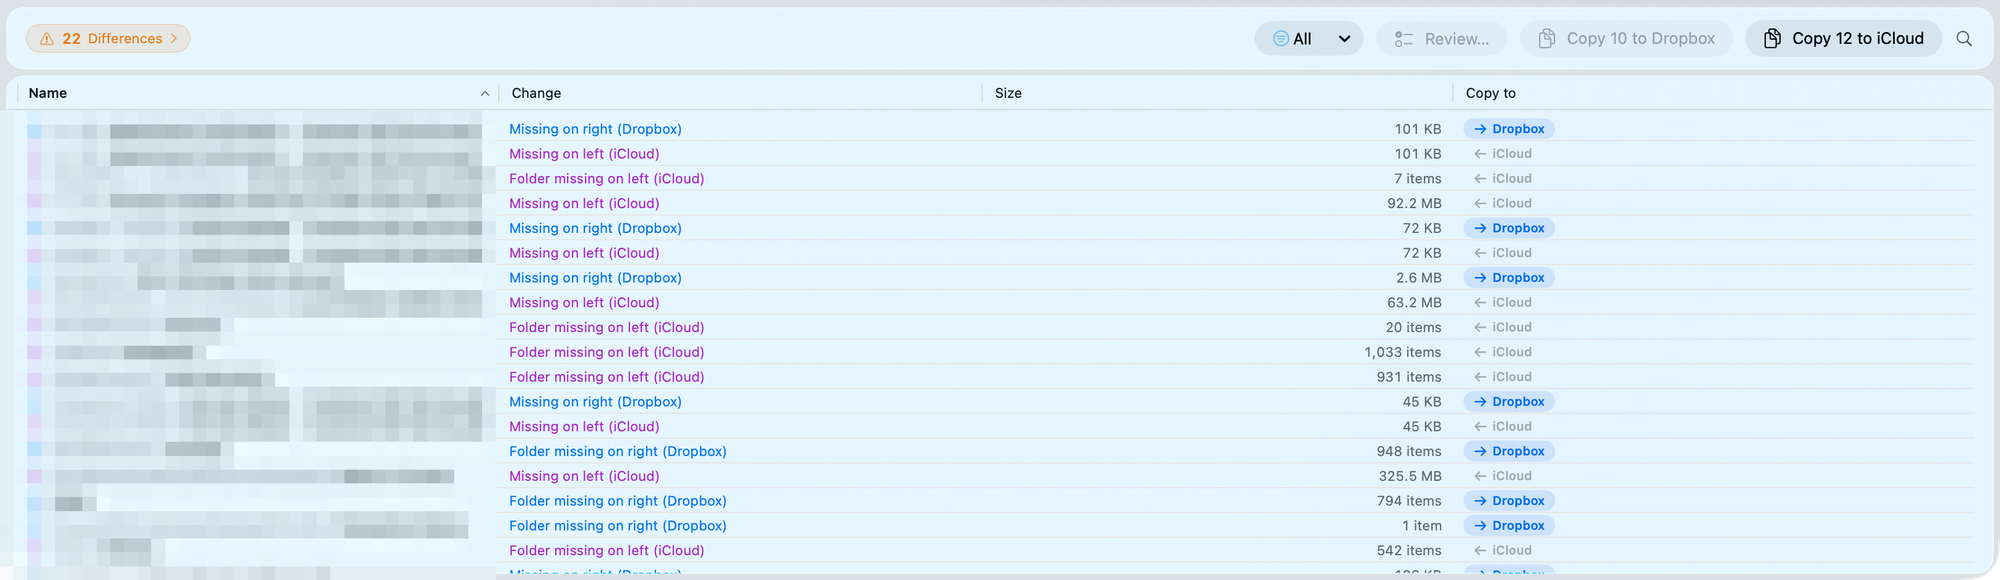
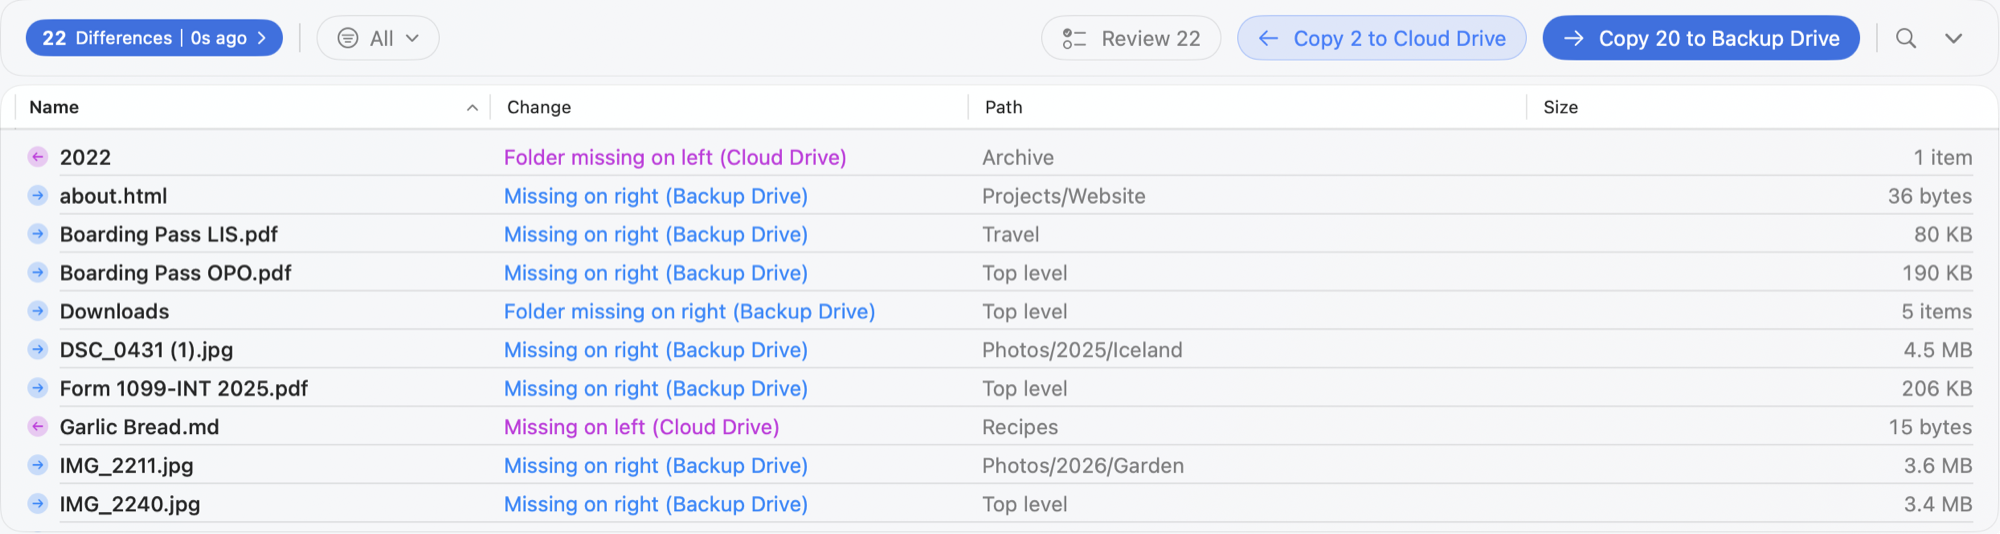
Reshoot the README and Pages screenshots, and fix the stale claims
Six of the seven images still showed the retired Compare | Tidy bar over
blurred real folders. Every image is now a capture of the 5.5-dev app
against a synthetic tree, and three are new (Browse, Edit in Split view,
Renames). compare-undo.png showed a UI that no longer exists, so Guided
Review replaces it as compare-review.png.

Captured under a separate bundle ID (com.abhishekgirish.SyncCloud.demo)
with CFFIXED_USER_HOME pointing at the fixture, so no real preferences or
folders were read or written. Storage's saved report was produced by the
app's own StorageLensAnalyzer. The home row in Locations still shows the
account name: it comes from NSUserName() and nothing overrides it.

Text fixed against the code, in both README and docs/index.html:
- `synccloud scan --verify` does not exist; --verify is a sync flag.
- Claude is reached only by Refine, so the cost estimate precedes a
  Refine, not a scan.
- Six lenses, not five; Rules and Storage are the two that do not act,
  and the two that never carry a badge.
- The editor's first mode is Source, not Edit.
- The startup disk left default Favorites on 2026-09-07; the home folder
  is in Favorites, not Locations; Recents appears only once it has rows.
- Difference filters, arrow glyphs, Renames' numbering pass, the CI
  description (tests, not a build), and a shipped text diff dropped from
  the roadmap line.

Main only: v2.x, v3.x and v4.x carry the UI their own screenshots show.

diff --git a/docs/index.html b/docs/index.html
@@ -284,8 +284,8 @@
           <li><span class="ic">🔎</span> <span><b>Filter &amp; token search</b> — <code>kind:pdf</code>, <code>&gt;10mb</code>, <code>only:left</code>, with live counts.</span></li>
         </ul>
         <div class="legend">
-          <span class="chip"><b style="background:#4c8dff"></b> Copy → right</span>
-          <span class="chip"><b style="background:#9a7bff"></b> Copy ← left</span>
+          <span class="chip"><b style="background:#4c8dff"></b> Missing on right</span>
+          <span class="chip"><b style="background:#9a7bff"></b> Missing on left</span>
           <span class="chip"><b style="background:#f2b13c"></b> Changed</span>
           <span class="chip"><b style="background:#e9d94a"></b> Name conflict</span>
         </div>
@@ -304,7 +304,7 @@
           <li><span class="ic">⌘</span> <span><b>Keyboard transfers</b> — <code>⌘→</code> copy, add <code>⇧</code> to move.</span></li>
         </ul>
       </div>
-      <div class="media"><img src="assets/screenshots/compare-undo.png" alt="An operation with a one-click Undo banner" loading="lazy"></div>
+      <div class="media"><img src="assets/screenshots/compare-review.png" alt="Guided Review stepping through differences one at a time" loading="lazy"></div>
     </div>
   </div>
 </section>
@@ -321,7 +321,7 @@
       <div class="safe">
         <div class="ico">◫</div>
         <h4>A folder sidebar</h4>
-        <p>Down the left of every workspace, in three sections: <b>Favorites</b>, the folders and places you keep; <b>Locations</b>, every account you have signed into plus your home folder, your disks and the Trash; and <b>Recents</b>, the folders you were last in. Favorites and Recents span every source, and you choose what sits in them.</p>
+        <p>Down the left of every workspace, in three sections: <b>Favorites</b>, the folders and places you keep; <b>Locations</b>, every account you have signed into, any disk Favorites is not already holding, and the Trash; and <b>Recents</b>, the folders you were last in, once you have been somewhere the other two don't list. Favorites and Recents span every source, and you choose what sits in them.</p>
       </div>
       <div class="safe">
         <div class="ico">▥</div>
@@ -352,7 +352,7 @@
   <div class="wrap">
     <div class="sec-head">
       <div class="kicker">Organize</div>
-      <h2>Five lenses to put a single cloud folder in order</h2>
+      <h2>Six lenses to put a single cloud folder in order</h2>
       <p>Switch a provider into the Organize workspace and reach for whichever lens the mess calls for.</p>
     </div>
 
@@ -386,7 +386,7 @@
       <div class="card" style="background:var(--grad-soft)">
         <div class="ico">🛟</div>
         <h4>…and undo</h4>
-        <p>Every clean-up action across all five lenses is one grouped, reversible step. Trash-backed, atomic, and gone with a single <code>⌘Z</code>.</p>
+        <p>Every clean-up action, in every lens that acts, is one grouped, reversible step. Trash-backed, atomic, and gone with a single <code>⌘Z</code>.</p>
       </div>
     </div>
 
@@ -457,7 +457,7 @@
     </div>
     <div class="safe-grid">
       <div class="safe"><div class="ico">📄</div><h4>One list of what you can open</h4><p>A collapsible file pane to browse to any folder, where one click on a text file opens it; fold the pane away and a rail lists that folder's text files instead. A file too large to read, or still in the cloud, is listed and dimmed rather than hidden — and says which it is.</p></div>
-      <div class="safe"><div class="ico">👁</div><h4>Markdown, three ways</h4><p><b>Edit</b>, <b>Preview</b>, or <b>Split</b> with a divider you can drag. Rendered by a real Markdown parser — tables and task lists included — at the app's own text size rather than a web view's.</p></div>
+      <div class="safe"><div class="ico">👁</div><h4>Markdown, three ways</h4><p><b>Source</b>, <b>Preview</b>, or <b>Split</b> with a divider you can drag. Rendered by a real Markdown parser — tables and task lists included — at the app's own text size rather than a web view's.</p></div>
       <div class="safe"><div class="ico">💾</div><h4>It saves itself, carefully</h4><p>A couple of seconds after you stop typing, and whenever the document leaves the screen. Every write is staged and swapped in atomically and goes back in the encoding the file was read in — byte-order mark and line endings intact. <code>⌘S</code> still means "now".</p></div>
       <div class="safe"><div class="ico">🛑</div><h4>It refuses rather than guess</h4><p>A file that is not valid text opens read-only: saving it would replace the parts that could not be read. A folder that appeared where the file was is not written over. Typing has its own undo, so <code>⌘Z</code> here can never reach into a move.</p></div>
     </div>
@@ -482,7 +482,7 @@
           </div>
           <ul class="flist" style="margin-top:24px">
             <li><span class="ic">🔒</span> <span>On-device AI keeps everything on your Mac. Cloud AI is <b>off by default</b> and opt-in.</span></li>
-            <li><span class="ic">💵</span> <span>Every cloud scan shows an estimated cost first and stops at your monthly / total cap.</span></li>
+            <li><span class="ic">💵</span> <span>Scans are always free and on-device. Every <b>Refine with Claude</b> shows an estimated cost first and stops at your monthly / total cap.</span></li>
             <li><span class="ic">↩</span> <span>Nothing files without your say-so, and every move is one undo.</span></li>
           </ul>
         </div>
@@ -526,11 +526,11 @@
 
 <span class="c"># compare two folders (a provider id/name or a path)</span>
 <span class="p">$</span> <span class="cmd">synccloud scan</span> <span class="fl">-L</span> <span class="o">iCloud/Documents</span> <span class="fl">-R</span> <span class="o">OneDrive/Documents</span>
-<span class="p">$</span> <span class="cmd">synccloud scan</span> <span class="fl">-L</span> <span class="o">~/A</span> <span class="fl">-R</span> <span class="o">~/B</span> <span class="fl">--verify</span>   <span class="c"># checksum same-size pairs</span>
 <span class="p">$</span> <span class="cmd">synccloud scan</span> <span class="fl">-L</span> <span class="o">~/A</span> <span class="fl">-R</span> <span class="o">~/B</span> <span class="fl">--json</span>     <span class="c"># machine-readable</span>
 
 <span class="c"># sync one direction, keeping both on collision (prompts unless --yes)</span>
 <span class="p">$</span> <span class="cmd">synccloud sync</span> <span class="fl">-L</span> <span class="o">~/A</span> <span class="fl">-R</span> <span class="o">~/B</span> <span class="fl">--direction</span> <span class="o">to-right</span> <span class="fl">--strategy</span> <span class="o">keep-both</span> <span class="fl">--yes</span>
+<span class="p">$</span> <span class="cmd">synccloud sync</span> <span class="fl">-L</span> <span class="o">~/A</span> <span class="fl">-R</span> <span class="o">~/B</span> <span class="fl">--verify</span>   <span class="c"># checksum same-size, date-only pairs first</span>
 
 <span class="c"># report where a surveyed tree disagrees with its own habits (read-only)</span>
 <span class="p">$</span> <span class="cmd">synccloud restructure</span>
@@ -548,10 +548,12 @@
       <p>A Liquid-Glass interface with System / Light / Dark themes, 11 accent hues (or none), and per-provider brand colours.</p>
     </div>
     <div class="gallery">
-      <figure><img src="assets/screenshots/tidy-organize.png" alt="To File lens" loading="lazy"><figcaption>To File — AI-assisted filing with per-file confidence and cost tracking</figcaption></figure>
+      <figure><img src="assets/screenshots/tidy-organize.png" alt="To File lens" loading="lazy"><figcaption>To File — where each loose file belongs, with a confidence and a reason</figcaption></figure>
       <figure><img src="assets/screenshots/tidy-duplicates.png" alt="Duplicates lens" loading="lazy"><figcaption>Duplicates — reclaim space with a recommended keeper and Quick Look previews</figcaption></figure>
-      <figure><img src="assets/screenshots/settings.png" alt="Settings" loading="lazy"><figcaption>Settings — themes, providers, sync behaviour, AI budget caps</figcaption></figure>
-      <figure><img src="assets/screenshots/tidy-storage.png" alt="Storage treemap" loading="lazy"><figcaption>Storage — a proportional treemap of where space concentrates</figcaption></figure>
+      <figure><img src="assets/screenshots/settings.png" alt="Settings, Appearance tab" loading="lazy"><figcaption>Settings ▸ Appearance — theme, accent colour, glass effect and content surface</figcaption></figure>
+      <figure><img src="assets/screenshots/browse.png" alt="Browse workspace with the folder sidebar" loading="lazy"><figcaption>Browse — one source, full width, with the folder sidebar down the left</figcaption></figure>
+      <figure><img src="assets/screenshots/edit.png" alt="Edit workspace with a Markdown file in Split view" loading="lazy"><figcaption>Edit — a Markdown file in Split view, Source beside Preview</figcaption></figure>
+      <figure><img src="assets/screenshots/renames.png" alt="Renames lens" loading="lazy"><figcaption>Renames — names a provider would reject, each with the name it would become</figcaption></figure>
     </div>
     <div class="center mt40">
       <a class="btn primary" href="https://github.com/agirish/sync-cloud">Get SyncCloud on GitHub</a>

diff --git a/README.md b/README.md
@@ -37,12 +37,12 @@ clearly-warned fallback on volumes with no Trash; the CLI has no undo stack of i
 ### 📁 Browse — your folders, one click away
 - **A folder sidebar in every workspace** (**⌃⌘S**), in three sections: **Favorites**, the folders
   and places you keep; **Locations**, every account you have signed into, any disks Favorites is
-  not already holding, and the Trash; and **Recents**, the folders you were last in. Favorites and Recents span every source, so
-  a favorite in Dropbox is reachable without switching to Dropbox first.
-- **Favorites you curate.** Starts as your home folder, Desktop, Documents, Downloads and your
-  startup disk; right-click any place in Locations to add it, any row in Favorites to remove it, or
-  any folder in a pane to keep it. **Restore Standard Places** brings the five back.
-- **Drag a row to reorder** either section. Locations shares its order with the pane header's
+  not already holding, and the Trash; and **Recents**, the folders you were last in (it appears once you have been somewhere the other
+  two don't already list). Favorites and Recents span every source, so a favorite in Dropbox is reachable without switching to Dropbox first.
+- **Favorites you curate.** Starts as your home folder, Desktop, Documents and Downloads;
+  right-click any place in Locations to add it, any row in Favorites to remove it, or
+  any folder in a pane to keep it. **Restore Standard Places** brings the four back.
+- **Drag a row to reorder** Favorites, Recents, and the accounts in Locations. Locations shares its order with the pane header's
   source dropdown, so the two can't disagree.
 - **Column browsing** the way Finder does it, with an inline preview beside the stack, columns you
   size one at a time, per-pane **tabs**, and a **pane bar** you arrange yourself.
@@ -52,10 +52,10 @@ clearly-warned fallback on volumes with no Trash; the CLI has no undo stack of i
   picker, breadcrumb navigation + back/forward history, and one-click **⇄ swap**.
 - **Difference detection** by presence, modification date, and size — with a **date tolerance** that
   absorbs the timestamp rounding cloud providers do, so you don't drown in false differences.
-- **Colour- and shape-coded diffs** (readable without colour): missing-on-right ▸, missing-on-left ◂,
+- **Colour- and shape-coded diffs** (readable without colour): missing-on-right →, missing-on-left ←,
   changed ↻, and **name conflicts** ⚠ — items that differ only by an invisible trailing space,
   trailing period, zero-width character, or Unicode form.
-- **Filter and search** the differences: `All / Missing / Changed / Name conflicts` with live counts,
+- **Filter and search** the differences: All, Missing on either side, Changed (either side newer), and Name conflicts, with live counts,
   plus a token search (`kind:pdf`, `>10mb`, `only:left`).
 - **Guided Review** steps through each difference one at a time — Copy / Move / Skip — with a running
   tally and "Copy Remaining" to finish in bulk.
@@ -66,7 +66,8 @@ clearly-warned fallback on volumes with no Trash; the CLI has no undo stack of i
   keyboard (`⌘→ / ⌘←` to copy, add `⇧` to move).
 
 ### 🗂 Organize — put one provider in order
-One rail, six lenses — five that act on what they find, and **Storage** (below), which only reports:
+One rail, six lenses — four that act on what they find, **Rules**, which sets the standing
+instructions, and **Storage** (below), which only reports:
 - **To File** — scans the loose files in an inbox folder and **suggests which existing folder each
   one belongs in**, filing it there safely (creating folders, never overwriting, always undoable).
 - **Duplicates** — finds byte-for-byte **identical** copies, **overlapping** folders, drifted
@@ -77,7 +78,7 @@ One rail, six lenses — five that act on what they find, and **Storage** (below
 - **Renames** — filenames that break on a given provider (OneDrive's forbidden characters and
   reserved names, Dropbox's trailing spaces/periods, zero-width characters anywhere), files that
   break their folder's `NN. Mon YYYY` date convention where the folder already keeps one, and
-  folders whose numbering has drifted. Each row names the problem in words and shows the name it
+  files renumbered or zero-padded to keep their folder in order. Each row names the problem in words and shows the name it
   would become; **Fix all** applies the provider-hostile set in one undo, and the convention and
   numbering passes are applied from their own controls.
 - **Restructure** — finds where the tree disagrees with its own habits and **straightens it**.
@@ -101,8 +102,8 @@ accent hue, ordered by size, so the colour *is* the ranking — plus ranked list
 files, long-untouched files, and reclaim candidates, each row carrying a magnitude bar and its
 share of the scan, and a capsule above the list to switch between them. Set a scope and it
 re-analyses that folder rather than filtering what it had — a treemap is a picture of a whole.
-Strictly read-only: it never moves, deletes, or evicts anything, which is also why it is the one
-lens that never wears a count badge.
+Strictly read-only: it never moves, deletes, or evicts anything, which is also why it, like Rules,
+never wears a count badge.
 
 ### ✏ Edit — write in a text file
 The one workspace that changes what is *inside* a file rather than moving files around. A collapsible
@@ -123,7 +124,8 @@ signals + on-device text extraction). You can layer AI on top:
 - **Cloud** via **Claude** (`claude-haiku-4-5`, `claude-sonnet-5`, or `claude-opus-5`) — off by
   default, opt-in, with your API key stored in the **macOS Keychain** (never in plaintext).
 
-Cloud usage is metered: every scan records tokens and estimated cost, guarded by a **pre-flight cost
+Cloud use is opt-in per pass: scans are always free and on-device, and only **Refine with Claude**
+reaches the cloud. Every Refine records tokens and estimated cost, guarded by a **pre-flight cost
 confirmation** and hard **monthly / total budget caps** (a `$5` lifetime cap by default). Over budget,
 it silently falls back to the on-device engine.
 
@@ -153,13 +155,19 @@ preview of the rows they produce.
 
 ## Screenshots
 
-| Two-pane comparison | Finding duplicate copies | Filing loose files, with AI |
+| Two-pane comparison | Browsing one source | Writing in a text file |
 |---|---|---|
-| ![Compare](docs/assets/screenshots/hero-compare.png) | ![Duplicates](docs/assets/screenshots/tidy-duplicates.png) | ![To File](docs/assets/screenshots/tidy-organize.png) |
+| ![Compare](docs/assets/screenshots/hero-compare.png) | ![Browse](docs/assets/screenshots/browse.png) | ![Edit](docs/assets/screenshots/edit.png) |
 
-| Storage treemap | Undo everywhere | Settings |
+| Filing loose files | Finding duplicate copies | Storage treemap |
 |---|---|---|
-| ![Storage](docs/assets/screenshots/tidy-storage.png) | ![Undo](docs/assets/screenshots/compare-undo.png) | ![Settings](docs/assets/screenshots/settings.png) |
+| ![To File](docs/assets/screenshots/tidy-organize.png) | ![Duplicates](docs/assets/screenshots/tidy-duplicates.png) | ![Storage](docs/assets/screenshots/tidy-storage.png) |
+
+| Guided Review | Cloud-hostile names | Settings |
+|---|---|---|
+| ![Guided Review](docs/assets/screenshots/compare-review.png) | ![Renames](docs/assets/screenshots/renames.png) | ![Settings](docs/assets/screenshots/settings.png) |
+
+Every capture is of the app running against a synthetic folder tree, not anyone's real files.
 
 More on the **[feature site](https://agirish.github.io/sync-cloud/)**.
 
@@ -201,10 +209,10 @@ swift run synccloud providers
 # Compare two folders (accepts a provider id/name or a path)
 swift run synccloud scan  -L iCloud/Documents -R OneDrive/Documents
 swift run synccloud scan  -L ~/A -R ~/B --json          # machine-readable
-swift run synccloud scan  -L ~/A -R ~/B --verify        # checksum same-size pairs
 
 # Sync (prompts unless --yes)
 swift run synccloud sync  -L ~/A -R ~/B --direction to-right --strategy keep-both --yes
+swift run synccloud sync  -L ~/A -R ~/B --verify        # checksum same-size, date-only pairs first
 
 # Report where a surveyed tree disagrees with its own habits (read-only)
 swift run synccloud restructure
@@ -220,8 +228,8 @@ Key flags: `--direction auto|to-right|to-left`, `--strategy replace|skip|keep-bo
 1. Get an API key from the [Anthropic Console](https://console.anthropic.com/).
 2. In **Settings ▸ Intelligence**, enable *Use Claude (cloud)*, paste the key (stored in the
    Keychain), pick a model, and hit **Test**.
-3. Set a monthly and/or total **budget cap**. SyncCloud shows an estimated cost before each scan and
-   stops at your cap.
+3. Set a monthly and/or total **budget cap**. SyncCloud shows an estimated cost before each Refine and
+   pauses cloud refinement at your cap.
 
 Without a key (and without Apple Intelligence), Organize still works — it just runs the deterministic
 offline engine.
@@ -234,7 +242,7 @@ SyncCloud/
 ├── Modules/                    # SPM packages:
 │   ├── Sync/                   #   diff engine, file ops, duplicates, filing/automations, storage lens
 │   ├── FileExplorer/           #   panes, differences, Organize lenses, review
-│   ├── Dashboard/              #   activity log, details, breadcrumbs, sync history
+│   ├── Dashboard/              #   folder sidebar, activity log, details, breadcrumbs, sync history
 │   ├── Settings/               #   settings UI + persistence
 │   ├── Design/                 #   Liquid Glass design system
 │   └── Events/                 #   logging, sync-history store
@@ -246,7 +254,7 @@ SyncCloud/
 
 ## Continuous integration
 
-The seven SPM package test suites and the app-target build run on every push to `main`, `v4.x`,
+The seven SPM package test suites and the app-target tests run on every push to `main`, `v4.x`,
 `v3.x` or `v2.x` and on every `v*` release tag, via a self-hosted GitHub Actions runner — see
 [`docs/ci.md`](docs/ci.md).
 
@@ -261,7 +269,7 @@ so neither `swift test` nor CI ever runs them; each names its variable in its ow
 ## Roadmap
 
 Planned enhancements (backing up the folders that exist in only one place, saved folder-pair
-presets, an in-app text diff viewer, a menu-bar status item, and more) are
+presets, a menu-bar status item, and more) are
 tracked in [`ROADMAP.md`](ROADMAP.md). Deliberately
 deferred edge cases live in [`DEFERRED_ENHANCEMENTS.md`](DEFERRED_ENHANCEMENTS.md), and internal
 code that is correct but entangled enough to be worth restructuring against a major release is
